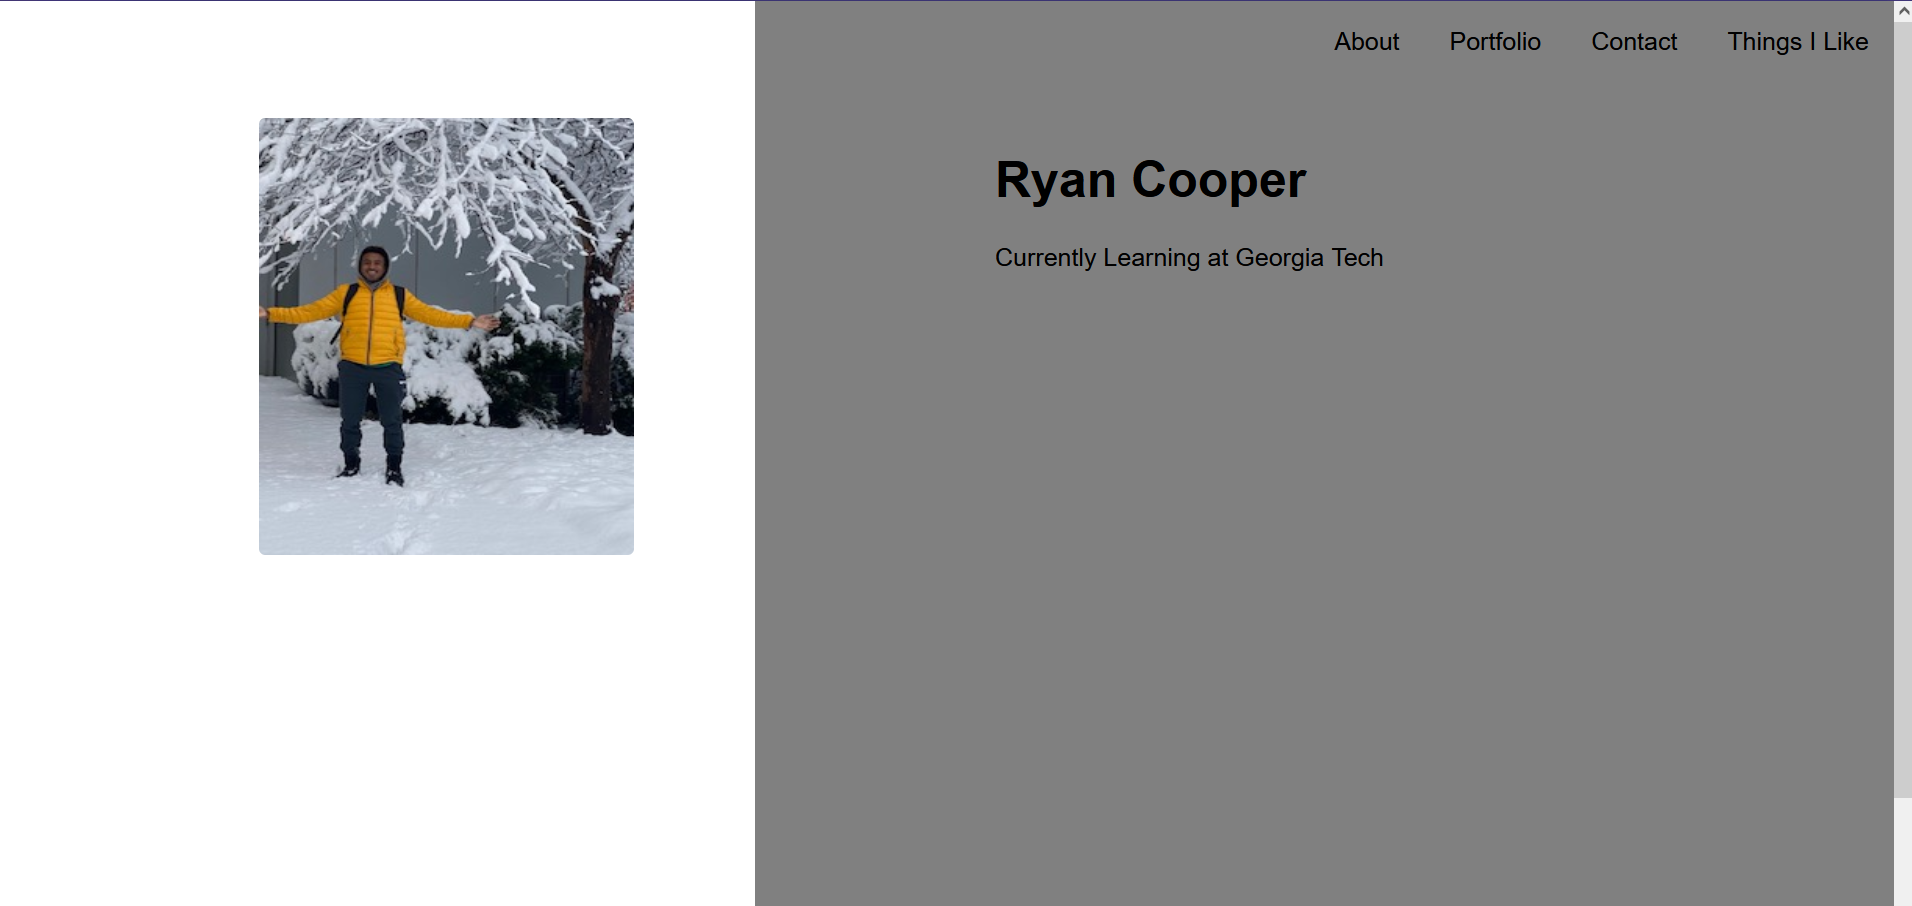
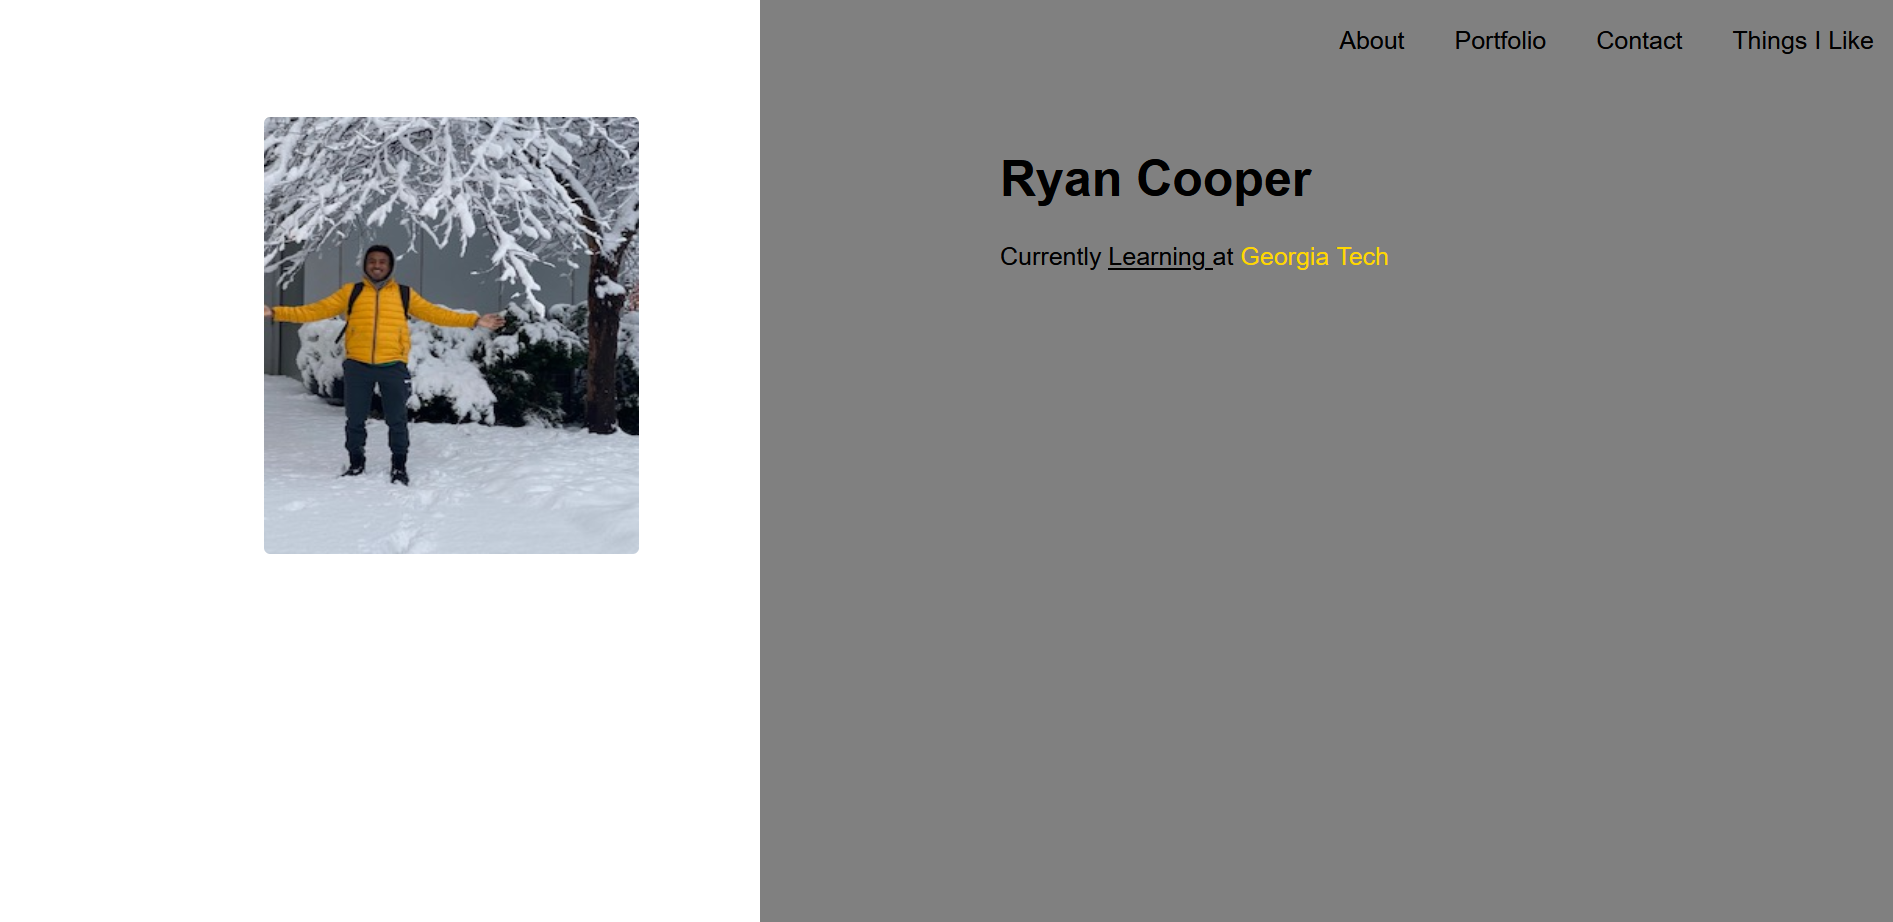
Add growth page

diff --git a/pages/learning.js b/pages/learning.js
@@ -1,0 +1,49 @@
+var ctx = document.getElementById('myChart');
+
+
+var marksData = {
+  labels: ["Junior Programmer", "Data Structures", "Web Development", "iOS Development", "Interview Prep", "Networking"],
+  datasets: [
+  /*  {
+      label: "Martha",
+      backgroundColor: "#FFF17644",
+      borderColor: "black",
+      borderWidth: 1,
+      data: [65, 75, 70, 80, 60, 80]
+    },
+    */{
+      label: "Ryan",
+      backgroundColor: "#8E24AA44",
+      borderColor: "black",
+      borderWidth: 1,
+      data: [20, 20, 30, 0, 20, 50]
+    }
+  ]
+};
+
+var chartOptions = {
+  plugins: {
+    title: {
+      display: true,
+      align: "start",
+      text: "Better Every Day."
+    },
+    legend: {
+      align: "start"
+    }
+  },
+  scales: {
+    r: {
+      pointLabels: {
+        font: {
+          size: 20
+        }
+      }
+    }
+  }
+};
+var radarChart = new Chart(ctx, {
+    type: 'radar',
+    data: marksData,
+    options: chartOptions
+});

diff --git a/index.html b/index.html
@@ -24,7 +24,7 @@
     <div class="sidebar"></div>
     <div class="content"></div>
     <div class="my-name" style="position: relative; left:800px; top: 30px;">
-        <p><h1>Ryan Cooper</h1>Currently Learning at Georgia Tech</div></p>
+        <p><h1>Ryan Cooper</h1>Currently <a href="pages/learning.html"><u><span style="color:black">Learning </span></u></a> at <span style="color:gold">Georgia Tech</span></div></p>
     <div class="avi" style="position: relative; right:100px; top: 30px;">
     <img src="images/IMG_9066.jpg" alt="action shot of ryan" height= 350px width = 300px/>
     </div>

diff --git a/pages/learning.html b/pages/learning.html
@@ -1,0 +1,11 @@
+<!DOCTYPE html>
+<html>
+    <head>
+        <title>Ryan Cooper</title>
+    </head>
+    <body>
+        <canvas id="myChart" width="1000" height="400"></canvas>
+        <script src="https://cdnjs.cloudflare.com/ajax/libs/Chart.js/2.8.0/Chart.min.js"></script>
+        <script src="learning.js"></script>
+    </body>
+</html>

diff --git a/styles.css b/styles.css
@@ -20,6 +20,10 @@ a:link, a:visited, a:hover, a:active
     flex-direction: row;
     height: 100vh;
 }
+.mark{
+    color: black;
+    background: none;
+}
 /*
 .sidebar {
     display: flex;
